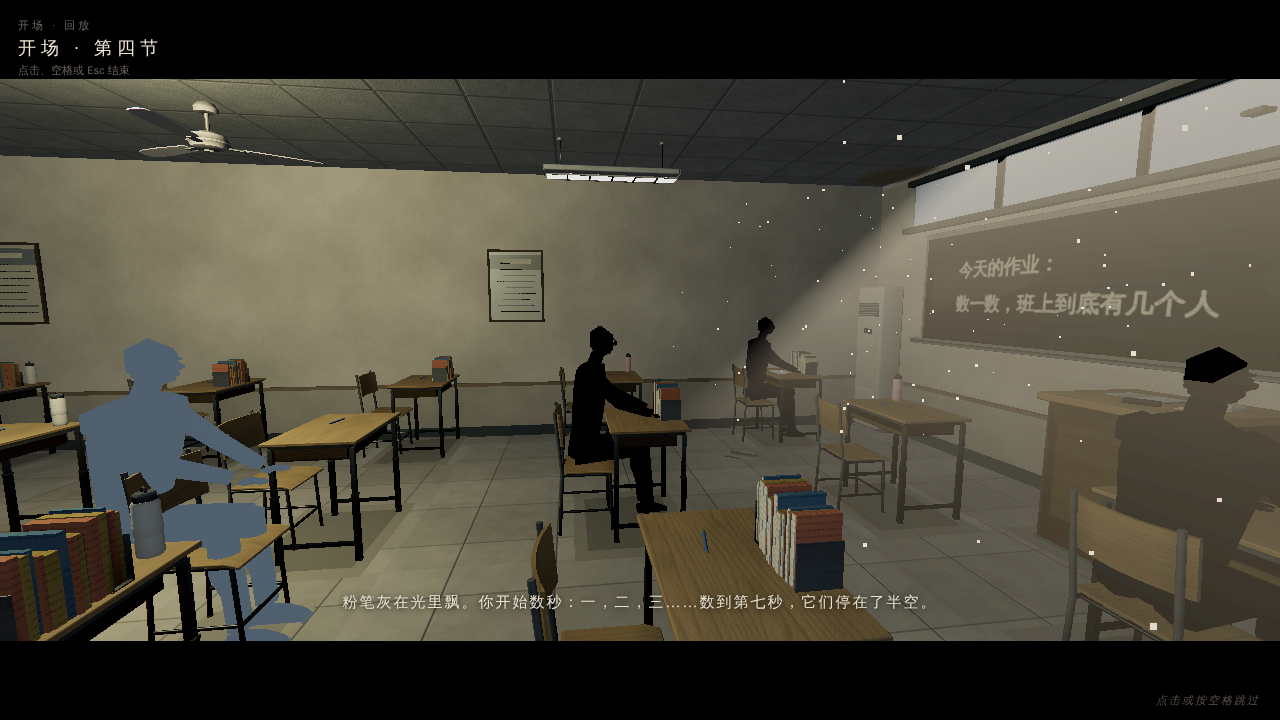
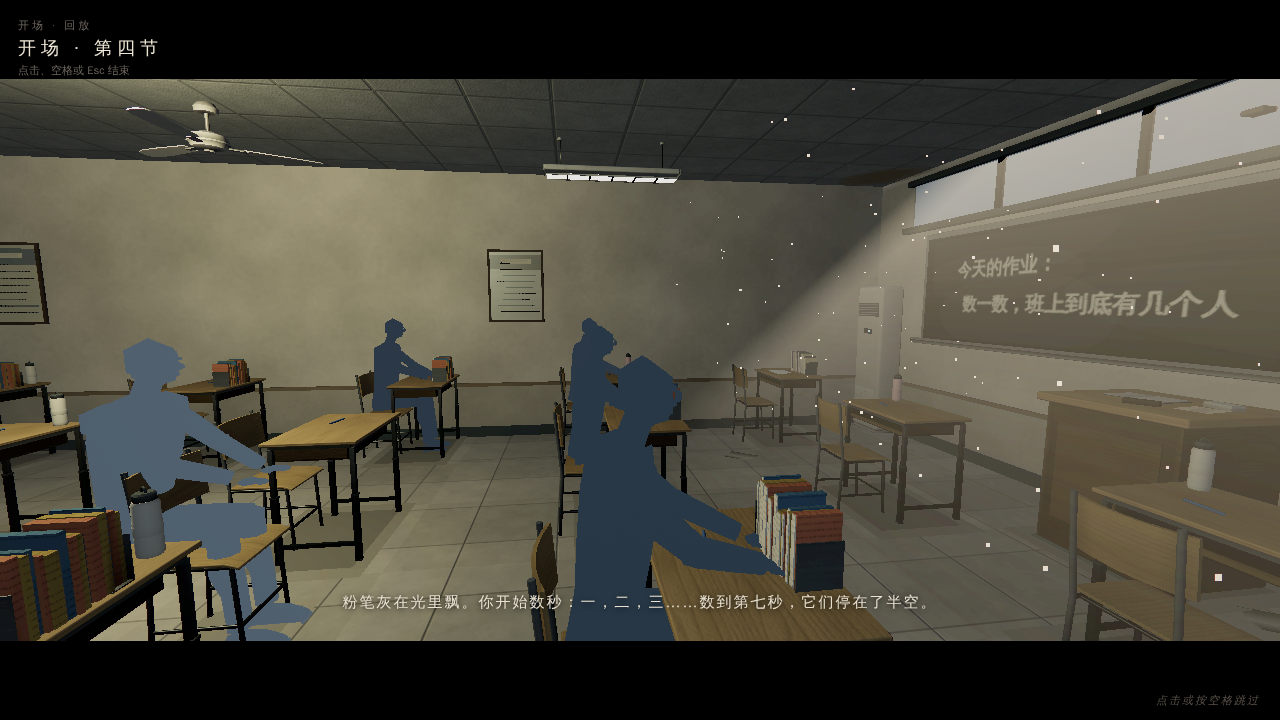
档案里重看开场：同学先换回正常的样子，天色固定在 11:40；文档对齐
- 开场看过以后教室一搭好同学就是里世界的样子，档案里重看完整版时前三段对不上：
  新增 ncRestore（ncFlip 的反向），回放开场前先换回正常的同学，演到第四段再褪掉。
- 菜单里残留的是上一局的时刻：开场回放用 VisualState.stageHour 固定在新局开始的 11:40，
  结束（含场景没搭好就结束）时收回，不改 S.tsec。
- 档案室回归补断言；重拍截图。
- 文档：产品对齐、计划 9.7、调试面板说明、AI 测试攻略、模块化规范、模块边界、README。

Claude-Session: https://claude.ai/code/session_01MYQzreqxohbYPjiGjbT8Md

diff --git a/game3d/js/death-archive.js b/game3d/js/death-archive.js
@@ -41,9 +41,10 @@ DEATH_ARCHIVE.forEach(function(e,i){ e.no=i+1; DEATH_ARCHIVE_BY_ID[e.id]=e; });
    cut 是过场 ID（CUT_DEF 的键）；解锁看真实记录——结局看 endsSeen()（「已见结局」那份），开场看 proSeen()——
    或者「全部解锁」。《先辈》是隐藏结局，标 secret：没达成过（也没全部解锁）就完全不出现。
    stage：回放前先进的场景（演出自己切室外舞台的，用教学楼一楼当底）；at：站在场景的哪一格、朝哪（《闸门》站在两排车之间的车道上朝西，
-   车灯顺着车道照出去——真实结局里是玩家站在车旁的位置和朝向） */
+   车灯顺着车道照出去——真实结局里是玩家站在车旁的位置和朝向）；hour：回放时的天色（VisualState.stageHour，只影响画面，不改 S.tsec），
+   开场固定在新局开始的 11:40（第四节），不跟着菜单里残留的上一局时刻变成夜里 */
 var ARCHIVE_CUTS=[
-  {id:'cut:opening', cut:'opening',            n:'开场 · 第四节', d:'粉笔灰停在半空，你趴到桌上。再睁开眼，教室里坐满了人，没有一个人在呼吸。', stage:'teach1'},
+  {id:'cut:opening', cut:'opening',            n:'开场 · 第四节', d:'粉笔灰停在半空，你趴到桌上。再睁开眼，教室里坐满了人，没有一个人在呼吸。', stage:'teach1', hour:700/60},
   {id:'end:car',     cut:'car',     end:'car',    n:'《闸门》',     d:'车灯闪了两下，光里站着它。冲出北门回头，黑影从门里追了出来。', stage:'garage1', at:{c:44.5,r:6.5,ang:Math.PI}},
   {id:'end:face',    cut:'face',    end:'face',   n:'《白名单》',   d:'闸机的红灯「嘀」地变白。走出门回头，门里一个接一个站满了目送的人。', stage:'teach1'},
   {id:'end:portal',  cut:'portal',  end:'portal', n:'《门》',       d:'导轨一段段闭合，光圈撑开。退了半步，然后走了进去。', stage:'lab1'},
@@ -234,6 +235,7 @@ var ArchiveReplay={on:false,id:null,timer:0,wait:0,snap:null,t0:0,cut:null,
     var cap=document.getElementById('arReplay');
     if(cap){ cap.hidden=false; cap.querySelector('b').textContent=e.n; cap.querySelector('i').textContent=e.cut?(e.end?'结局档案 · 回放':'开场 · 回放'):'死亡档案 · 回放'; }
     S.screen='replay'; S.dead=false; S.death=null; S.seated=false; S.pitch=0; S.eyeLift=0;
+    if(e.hour!==undefined) VisualState.stageHour=e.hour;          /* 先定天色再搭场景：窗光、灯这些按搭建时的时刻 */
     try{
       if(e.stage==='out'){
         S.x=DEATH_STAGE_OUT.x; S.y=DEATH_STAGE_OUT.y; S.ang=DEATH_STAGE_OUT.ang;
@@ -270,7 +272,10 @@ var ArchiveReplay={on:false,id:null,timer:0,wait:0,snap:null,t0:0,cut:null,
     if(typeof CUT_DEF==='undefined'||!CUT_DEF[e.cut]){ ArchiveReplay.stop(); return; }
     ArchiveReplay.cut={enabled:CUT.enabled,dur:CUT_DEF.opening?CUT_DEF.opening.dur:null,short:typeof Opening!=='undefined'?Opening.short:false};
     CUT.enabled=true;
-    if(e.cut==='opening'&&typeof Opening!=='undefined'){ Opening.short=false; CUT_DEF.opening.dur=OPENING_DUR.full; }   /* 档案里看完整版 */
+    if(e.cut==='opening'&&typeof Opening!=='undefined'){                /* 档案里看完整版；同学先换回正常的样子，演到第四段再褪成里世界 */
+      Opening.short=false; CUT_DEF.opening.dur=OPENING_DUR.full;
+      try{ ncRestore(); }catch(err){}
+    }
     try{ SFX.resume(); }catch(err){}
     try{ syncCamera(0); }catch(err){}
     playCut(e.cut,function(){ ArchiveReplay.stop(); });
@@ -286,6 +291,8 @@ var ArchiveReplay={on:false,id:null,timer:0,wait:0,snap:null,t0:0,cut:null,
     ArchiveReplay.on=false;
     if(typeof CUT!=='undefined'&&CUT.on){ CUT.done=null; cutFinish(); }    /* 结局 / 开场回放中途结束：先收掉过场（完成回调已摘掉，不会再进来） */
     var c=ArchiveReplay.cut; ArchiveReplay.cut=null;
+    var ent=ARCHIVE_BY_ID[ArchiveReplay.id];
+    if(ent&&ent.hour!==undefined) VisualState.stageHour=null;         /* 回放指定的天色收回（场景没搭好就结束时也收） */
     if(c){
       CUT.enabled=c.enabled;
       if(c.dur!==null&&CUT_DEF.opening) CUT_DEF.opening.dur=c.dur;

diff --git a/game3d/js/fx/classroom.js b/game3d/js/fx/classroom.js
@@ -187,6 +187,19 @@ function ncFlip(){
   NC.normal=false; NC.done=true;
   try{ GLR.flash=Math.min(0.55,(GLR.flash||0)+0.4); }catch(e){}
 }
+/* ncFlip 的反向：同学（和讲台边的老师）换回正常的样子。死亡档案室重看完整版开场时用——
+   开场看过以后，教室一搭好同学就是里世界的样子，而完整版前三段演的是正常的第四节。不闪白，不改 NC.done */
+function ncRestore(){
+  if(!NC.list||!NC.list.length||!NC.matN) return false;
+  var i,k,f;
+  for(i=0;i<NC.list.length;i++){
+    f=NC.list[i];
+    if(!f.children) continue;
+    for(k=0;k<f.children.length;k++) f.children[k].material=NC.matN;
+  }
+  NC.normal=true;
+  return true;
+}
 /* 同班表现是否存在：数值压力由规则层按模拟时间结算。 */
 function ncPressureState(){return !!(NC.grp&&NC.room&&S.mode==='in'&&S.room===NC.room);}
 function ncUpdate(dt){

diff --git a/tests/test_archive_speedrun.py b/tests/test_archive_speedrun.py
@@ -154,13 +154,18 @@ class DeathArchiveTest(BrowserCase):
         page.wait_for_timeout(500)
         page.keyboard.press('Escape')
         page.wait_for_function("!ArchiveReplay.on&&S.screen==='menu'")
-        # 开场：档案里看完整版，按键也能结束
+        # 开场：档案里看完整版，按键也能结束。菜单里残留的是上一局的深夜，开场仍按 11:40 的天色演；
+        # 开场看过以后教室一搭好同学就是里世界的样子，完整版前三段要换回正常的同学
+        page.evaluate("S.tsec=1380")
         page.locator('#arcuts .arcard[data-id="cut:opening"] button').click()
         page.wait_for_function("ArchiveReplay.on&&CUT.on&&CUT.id==='opening'&&CUT.dur===OPENING_DUR.full", timeout=20000)
+        self.assert_js(page, "Math.abs(hourNow()-700/60)<1e-6&&S.tsec===1380")
+        self.assert_js(page, "NC.normal===true&&NC.list.length>0&&NC.list.every(f=>[...f.children].every(c=>c.material===NC.matN))")
         page.wait_for_timeout(600)
         page.keyboard.press('Escape')
         page.wait_for_function("!ArchiveReplay.on")
         self.assert_js(page, "S.screen==='menu'&&!CUT.on&&Opening.short===false&&document.getElementById('opcap').textContent===''")
+        self.assert_js(page, "VisualState.stageHour===null&&S.tsec===1380")
 
     def test_unlock_all_needs_the_debug_password_and_does_not_fake_progress(self):
         """「全部解锁」：在页面里的数字键盘上输调试密码，死亡和演出（包括隐藏的）全部打开，只记成「直接解锁」：

diff --git a/docs/产品对齐文档.md b/docs/产品对齐文档.md
@@ -87,7 +87,7 @@
 | 寻路与探索 | 找到建筑、走楼梯、定位物件，记下有价值的线索。 | 小地图、全图、建筑门牌、罗盘、笔记、思索。 | 地图、线索和思索的职责容易混淆，线索跨天规则不直观。 |
 | 异象求生 | 识别危险，并知道某种行动可能改变结果。 | 声音、视觉特效、字幕、选择界面。 | 难度、提示时间、危险阈值与低帧率体验尚无实测标准。 |
 | 暂停与继续 | 安全中断并能回到相同进度。 | 自动保存、暂停菜单手动保存、继续上次。 | 单槽位；部分运行状态仍不能完整恢复。 |
-| 到达结局 | 确认路线有效，理解结局并返回菜单。 | 结局文本、返回按钮和主菜单已见结局。 | 是否提供继续探索或重看，尚待确定。 |
+| 到达结局 | 确认路线有效，理解结局并返回菜单。 | 结局文本、返回按钮和主菜单已见结局；达成过的结局演出可在死亡档案室「结局与开场」里重看（2026-11-03）。 | 是否提供继续探索，尚待确定。 |
 | 求助 | 理解规则或卡关时寻求提示。 | 主菜单的玩家 Wiki。 | Wiki 包含折叠剧透；游戏内是否提供无剧透分级提示待决策。 |
 
 ### 2.2 首局的实际步骤
@@ -135,7 +135,7 @@
 | 新局天赋选择 | 已实现（2026-11-01） | 选完难度先选一项天赋或随机，确认才开新局。 | 规则 2 的试验效果待真人理解度与平衡验收。 |
 | 新局 3D 开场 CG | 已实现（2026-11-01） | 在教室里实时演出变成里世界，随时可跳过。 | 安卓真机、五档逐一与听感待验收。 |
 | 速通模式 | 已实现（2026-11-01） | 本机 RTA 计时、按难度与路线记个人最佳。打开调试面板、不经正常路线直接调结局、带着快跑 / 无敌 / 关读条结算都记无效；开速通时这三个跨局保留的调试开关恢复常规状态（2026-11-02 补）。 | 本地记录，不能防作弊；自然通关计时未做真人记录。 |
-| 死亡档案室 | 已实现（2026-11-01） | 每种死法记一份，可在隔离舞台重看演出。 | 浏览器本地存储；真机触屏回放未测。 |
+| 死亡档案室 | 已实现（2026-11-01；2026-11-03 收入结局与开场） | 每种死法记一份，可在隔离舞台重看演出；达成过的结局、看过的开场也能重看（不出结局卡、不改记录）。「全部解锁」要先输调试密码，只记成「直接解锁」。 | 浏览器本地存储；真机触屏回放未测。 |
 | 特殊校园日 | 已实现（2026-11-01） | 校庆（逐秒 SAN 流失减半）与占课（琴房机房不开）。 | 概率为实施取值，长局体验待验收。 |
 | 传送门实体装置 | 已实现（2026-11-01） | 演示台上看得见装置随剧情组装，结局演出用同一模型。 | 安卓低画质辨认度待验收。 |
 
@@ -148,7 +148,7 @@
 | --- | --- | --- | --- |
 | 主菜单 | 加载主页、死亡/结局/暂停返回 | 难度、新局、继续存档、速通模式、死亡档案室、画质、亮度、Wiki、全屏。 | 选择新局或继续；Wiki 是独立网页。 |
 | 速通模式 | 主菜单「速通模式」 | 说明计时口径；选预知梦 / 梦魇后进入天赋选择开局；下面是按「规则版本 · 难度 · 路线」的个人最佳和最近 5 次结果。隐藏路线只有本机打通过才出现在表里。 | 返回或 Esc；选难度后进入天赋选择。 |
-| 死亡档案室 | 主菜单「死亡档案室」 | 已记录 n / 公开总数（解锁过隐藏档案时另显示「隐藏 n」）；每份档案是标题、一句记录、经历次数和「重看」；没遇到的公开档案显示「尚未记录 · 封存的档案」，不露标题和死因；隐藏档案（目前是虚空迷宫里的两种死法）没遇到时完全不出现。旧版本来源不明的死亡只给出条数。 | 返回或 Esc；「重看」进入隔离回放，点击 / 空格 / Esc 结束后回到档案室。 |
+| 死亡档案室 | 主菜单「死亡档案室」（副标题「死法、结局与开场，都能重看」） | 两节同一个滚动区。「死亡」：已记录 n / 公开总数（解锁过隐藏档案时另显示「隐藏 n」）；每份档案是标题、一句记录、经历次数和「重看」；没遇到的公开档案显示「尚未记录 · 封存的档案」，不露标题和死因；隐藏档案（目前是虚空迷宫里的两种死法）没遇到时完全不出现。旧版本来源不明的死亡只给出条数。「结局与开场」（2026-11-03）：已解锁 n / 5（开场 + 四个公开结局；隐藏结局达成过才出现，另记「隐藏 1」）；达成过的写「已达成」、看过的开场写「已看过」，没达成的显示「尚未达成 · 封存的结局」。底部「全部解锁」：先弹调试密码数字键盘，输对后全部打开（含隐藏条目），卡片写「直接解锁 · 没有亲历」，按钮变「已全部解锁」。整块不超过屏幕高，手机横屏底部按钮也在屏幕里。 | 返回或 Esc；「重看」进入隔离回放，点击 / 空格 / Esc 结束后回到档案室（结局与开场走过场自己的跳过，不出结局卡、不写结局记录）；密码键盘的取消 / Esc 只关键盘。 |
 | 开场 CG | 每次新局（2026-11-01 起替代文字前情提要） | 在第一节教室实时演出：正常的第四节、老师从头再念、粉笔灰停在半空、颜色褪去闭眼、第一人称醒来；字幕沿用原前情提要。第一次完整版约 26 秒，看过 / 跳过后短版约 11 秒；世界模拟停止。 | 点击、空格、回车、Esc 随时跳过；看完和跳过走同一个交接，座位、朝向和画面状态一致。没有 3D 场景时退回文字版前情提要。 |
 | 游戏画面 | 开局或载入 | 3D 场景、HUD、小地图、字幕、提示、快捷栏。 | 暂停、死亡、结局。 |
 | 背包 | Tab / 触屏「背包」 | 八格、选择、双击使用、丢弃、两个快捷栏。 | Tab、Esc 或关闭按钮。 |
@@ -691,6 +691,7 @@ flowchart TD
 - 垃圾房第三个桶已改为死亡分支：死亡演出 `trash` 是「桶里往上看 → 盖子合上 → 桶沿漏一圈光、外面敲两下 → 黑」，不再出结局卡；旧存档里已有的假结局记录保留。
 - 死亡演出（可触发的 30 种死法各自一段，约 2–3.6 秒；其中虚空迷宫里的两种由迷宫模块登记）看过 0.6 秒后，点一下或按空格 / 回车 / Esc 可以跳过，直接到死亡界面或预知梦惊醒；同样只结算一次，触屏点跳过的那一下不会按到随后出现的按钮。
 - 实现见 `game3d/js/cutscene.js`；`CUT.enabled=false` 时直接出文字卡（回归测试用）。
+- 重看（2026-11-03）：达成过的结局和看过的开场收在死亡档案室「结局与开场」里（`death-archive.js` 的 `ARCHIVE_CUTS`），用同一份 `CUT_DEF` 在隔离舞台上播：《闸门》站在车库车道上朝西，《门》在物理实验室，其余以教学楼一楼为底；完成回调只回档案室，不出结局卡、不写结局记录、不动存档；回放时临时打开过场开关、结束还原，开场看完整版（天色固定在 11:40，同学先换回正常的样子再演褪色）。隐藏结局没达成过就不出现；「全部解锁」（调试密码）可直接打开全部。
 - 新局开场 CG（`game3d/js/opening.js`）也走同一套过场框架：`CUT_DEF.opening`，演出期间 `S.screen==='cut'`、`PRO.on` 挡住输入和同学的自动变化；`Opening.handoff()` 幂等交接到 11:40 的座位。速通从交接后第一次能操作时起表。
 - 传送门实体：演示台上常驻一台（基座、支柱、线缆、空卡槽；图纸齐了卡槽亮灯；组装后线圈、透镜、试剂、电池装上，门内流光），单独一组按 `RT.portalSketch / portalOpen` 摆放，不进房间合并网格、不新增碰撞；五档画质只改分段数，流畅档门内保留一层不透明的流光。
 
@@ -757,7 +758,7 @@ flowchart TD
 | `zw3d_set` | 画质、音量、字幕、亮度、镜头晃动、音乐环境、画面颗粒等。 | 设置变化时保存；启动时读取。 |
 | `wdfz3d_deaths` | 各种死法、具体来源的次数和最近 12 次死亡（来源、效果、天数、地点）。 | 每次真实死亡时写入；笔记「梦里记得的事」读取。新局不清除。 |
 | `wdfz_pro` | 是否看过（或跳过）开场。 | 开场交接时保存；新局开始时决定完整版还是短版。 |
-| `wdfz3d_death_archive_v1` | 死亡档案：`version`、`unlocked{id}`、`first{id:时间}`、`count{id}`、`legacy{id}`（从旧日志迁入）、`pending`（来源不明的旧记录条数）、`migrated`。 | 真实死亡在保命判定之后写入；启动时迁移一次旧 `wdfz3d_deaths`（只迁有明确来源的）。不随存档、结局、新局删除。 |
+| `wdfz3d_death_archive_v1` | 死亡档案：`version`、`unlocked{id}`、`first{id:时间}`、`count{id}`、`legacy{id}`（从旧日志迁入）、`granted{id}`（「全部解锁」直接打开的死亡、结局、开场条目，不计次数、不算亲历；2026-11-03）、`pending`（来源不明的旧记录条数）、`migrated`。结局与开场条目本身不另存，按 `wdfz3d_ends`、`wdfz_pro` 判断。 | 真实死亡在保命判定之后写入；启动时迁移一次旧 `wdfz3d_deaths`（只迁有明确来源的）。不随存档、结局、新局删除。 |
 | `wdfz3d_speedrun_v1` | 速通成绩：`recent`（最近 20 次：runId、难度、路线、毫秒、状态、无效原因、规则版本、游戏版本、时间）和 `best`（键 `r规则|难度|路线`）。 | 结束（通关 / 失败 / 放弃 / 无效）时写一次，同一 runId 不重复。 |
 | `wdfz3d_speedrun_slot` | 速通专用存档槽，结构同 `wdfz3d`。 | 速通中的自动保存只写这里；开新速通、回主菜单时清掉。普通「继续上次」不读它。 |
 
@@ -1084,6 +1085,7 @@ flowchart TD
 | 2026-11-02 | PR #25 合入 main 的项目解耦与模块化：18.2 节「主要事实来源」改为新局 / 继续 / 暂停在 `app/session.js`、输入策略在 `app/input-context.js`、数值 / 时间 / 背包 / 存档规则在 `domain/`；天赋、特殊日、速通、死亡档案与开场 CG 按模块接口接入。 | 玩法规则、数值和存档格式不变；验证见测试说明。 |
 | 2026-11-02 | 按用户手稿把电梯特殊空间重做为虚空迷宫（桥厅、阶梯塔、坠落复活、越久越快的 SAN 流失、地图与时间失效）；粉笔可画记号并存档；项目按模块清单加载，加入钩子、房间接口和 Mod 入口（自带 / 网址 / 上传，`?nomod` 安全模式）。 | 代码与自动化完成；出口 2 去向等参数未经逐项确认；真人试玩与真机待验收。 |
 | 2026-11-02 | PR #27：全部一次性音效重做为配方 + 播放器 + 按类别校准的响度（11.3 节）；上课铃与下课铃分开；虚空迷宫加柱林、窄梁、回环三种结构（内部空间，不进 Wiki）；隐藏彩蛋天赋「武大子弟」（每次新开局 3% 几率、另有隐藏入口；开局自带手电、与正常天赋叠加，内部，见天赋计划第 13 节）。 |
+| 2026-11-03 | 死亡档案室收入结局与开场演出（隔离回放，不出结局卡、不改存档和结局记录）；「全部解锁」入口（需调试密码，只记成直接解锁，不写死亡次数和已见结局）；手机横屏档案室底部按钮不再被挤出屏幕。 | 玩法规则不变；Wiki 只写公开结局与开场可重看；验证见测试说明。 |
 
 ## 可玩性扩展的资源和验证边界
 

diff --git a/docs/plan/README.md b/docs/plan/README.md
@@ -6,7 +6,7 @@
 | --- | --- | --- |
 | [巡察者常驻、手机网络系统与网安仙人](巡察者常驻、手机网络系统与网安仙人.md) | 代码已实现，待自然试玩／真机验收 | [PR #29](https://github.com/chorusfruit-233/wdfz/pull/29) 集中实现 Q01—Q29：全校单巡察者固定路线、穿门／符纸消灭后 30 秒复生、独立检查责任与救回解除；统一运行秒、手机能源／科技党、无线接入／实时定位／远程同步、模拟 Linux 解谜、600 秒生存与公开真结局《网安仙人》。完成存档／预知梦兼容、3D 分镜和文档同步。2026-11-02 完整本地回归 549 项（548 通过、1 环境跳过），加收尾专项按最后结果去重为 556 项（555 通过、1 环境跳过）；固定巡逻覆盖 68/68 条边，永久追踪 34/34 个目标可达，见[回归记录](../validation/巡察手机网络回归.md)。M7 自然收集通关组合、Android 真机、听感与真实 GPU 尚待验收。2026-11-03 合并后复审（第 16 节）：跨场景追踪的路由改为缓存骨架最短路（重规划卡顿明显减少），《网安仙人》结局演出按 9.2 节重做为 16 秒实时 3D 分镜（[PR #30](https://github.com/chorusfruit-233/wdfz/pull/30)）。 |
 | [项目解耦与模块化](项目解耦与模块化.md) | 代码已实施，待真人／真机验收 | 按最新指示直接在 main 实施，代码 `37658d8`：统一输入／会话生命周期，抽出数值、时间、背包和存档规则，隔离镜头与结局舞台，加入模块边界检查。当前 397 项按完整回归及专项复测去重核对：396 通过、1 环境跳过；汽车路线实际操作通关。普通脚本、旧接口、原随机源和同学场景查询作为兼容边界保留；真人／真机与真实 GPU 对照未验收，记录见正文第 10 节及测试说明。PR #25 合入本次模块化时，天赋规则 2、开场 CG、速通、死亡档案与特殊日按同一接口接入（见[模块边界与迁移](../模块边界与迁移.md)第 7 节），A-01 开场空格跳过随新输入策略修复。 |
-| [传送门建模、死亡CG档案室与速通模式](传送门建模、死亡CG档案室与速通模式.md) | 部分完成 | 第 6.7 节 20 分钟自然日此前已部署。2026-11-01 实现 P0 传送门实体模型（实验室常驻装置与结局演出共用）、P1 死亡档案室（18 种死因、可信解锁、隔离回放）、P2 速通模式（RTA、独立存档槽、个人最佳）、P3 新局 3D 开场 CG、P4 水杯前摇缩短 / 夜间连锁异象 / 校庆与占课，均有自动化与截图（第 9 节）；电梯异常维度的「异色空间」重绘及人影已按要求从 PR #25 撤回；2026-11-02 按用户手稿重新设计为虚空迷宫（6.4 节，另立计划「虚空迷宫、粉笔记号与模块化」，PR #26）；2026-11-02 已合入 main 的模块化重构，按新接口接入，开场 CG 键盘空格跳过的输入分流问题随之修复；真人试玩、安卓真机、听感与真实 GPU 性能验收未做。 |
+| [传送门建模、死亡CG档案室与速通模式](传送门建模、死亡CG档案室与速通模式.md) | 部分完成 | 第 6.7 节 20 分钟自然日此前已部署。2026-11-01 实现 P0 传送门实体模型（实验室常驻装置与结局演出共用）、P1 死亡档案室（18 种死因、可信解锁、隔离回放）、P2 速通模式（RTA、独立存档槽、个人最佳）、P3 新局 3D 开场 CG、P4 水杯前摇缩短 / 夜间连锁异象 / 校庆与占课，均有自动化与截图（第 9 节）；电梯异常维度的「异色空间」重绘及人影已按要求从 PR #25 撤回；2026-11-02 按用户手稿重新设计为虚空迷宫（6.4 节，另立计划「虚空迷宫、粉笔记号与模块化」，PR #26）；2026-11-02 已合入 main 的模块化重构，按新接口接入，开场 CG 键盘空格跳过的输入分流问题随之修复；2026-11-03 档案室收入结局与开场演出（隔离回放）并加「全部解锁」（需调试密码，只记成直接解锁），第 9.7 节；真人试玩、安卓真机、听感与真实 GPU 性能验收未做。 |
 | [天赋系统重构](天赋系统重构.md) | 部分完成 | 2026-11-01 完成 M0–M3：`talents.js` 统一定义与能力接口、新局选择 / 随机 / 返回、免疫立即落盘、未知 ID 校验、手册与暂停反馈、规则 2 试验效果（旧存档保持规则 1），`tests/test_talents.py` 9 项；M4 路线自然通关与 M5 真人 / 真机验收未做（第 12 节）。；2026-11-02 PR #27 加一项隐藏彩蛋天赋（内部，见第 13 节，不进 Wiki）。 |
 | [可玩性与整体体验提升](可玩性与整体体验提升.md) | 代码已实现，待真人／真机验收 | [PR #20](https://github.com/chorusfruit-233/wdfz/pull/20) 集中交付 G1–G9 的实现、回归与记录工具：首局调查、具体笔记与路线选择、图纸挑战、补给取舍、失败归因、楼层草图、操作设置及叙事回应。第二轮（17.6 节）做了审查修复、全部新界面与场景文字牌按游戏界面风格重做、Alt 放出鼠标。真人盲玩、正常收集通关、自然跨日、实体设备、听感和重玩价值保持待验收，证据见正文第 17 节。 |
 | [恐怖体验深化与验证](恐怖体验深化与验证.md) | 部分完成 | P0–P2 与第 6 节自动化已完成：威胁矩阵与事件优先级表、原巡察者卡住放弃 / 跟丢回头找 / 记得躲过的柜子（PR #29 改用常驻策略，永久追踪不再因卡路超时解除）、声音先行与有方位的假威胁、惊吓预算、骤静与前兆、回访变化、五分钟切片，导演系统评估后暂不做；安卓真机与真人试玩记录未做。2026-11-02 异色空间人影改动已从 PR #25 撤回，随异常维度一起重新设计。 |

diff --git a/docs/模块化与Mod规范.md b/docs/模块化与Mod规范.md
@@ -121,12 +121,14 @@ game3d/mods/                    随游戏发布、默认关闭的 Mod；index.js
 
 - `DeathCG.register(类型, {build(c), update(c, k, view)})`：登记一种演出，同名覆盖内置。`build` 搭模型，`update` 按经过的秒数 `k` 摆模型和镜头——所有位置只由 `k` 算，帧率高低结果一样。`c` 是演出上下文：`add / mesh / box / fig / fx / merged / inst`（建在「视线坐标系」里：原点在脚下，+z 是死的那一刻的视线方向，本地 +x 在画面左边）、`veil`（收束用的黑幕）、`cam(view, k, 偏航, 俯仰, 下沉)`（镜头；偏航为正往右转）、`shade`、`flash`（只闪一次，亮度封顶 0.5）、`cue`（声音到点只响一次）、`face`、`hideWorld()`（藏起当前房间或室外，场景里标了 `userData.worldPart` 的东西——例如粉笔记号——一起藏，清场时还原）。往 `c` 上挂自己的东西时别用它已有的字段名（`type F preview rand base shk flashed cued lift veilMesh`）。常用小工具在 `DeathCG.kit`：`seg / sm / ss / lerp3 / rng / mat / setI`。
 - `DeathTimeline.define(类型, 秒)`：登记时长（四段式至少 3 秒；死亡界面在演出放完后出现）。
-- 配套：死亡音写成声音库里的 `death.<类型>`（`SFX.deathFx` 会先放 `death.base`）；墓志铭 `DFX_EPI[类型]`、死因与复盘提示 `DEATH_SOURCES[来源] = {cause, hint}` 由模块的逻辑文件填；调试面板的预览列表 `DEV_DEATH.push([名字, 类型])`；死亡档案的条目登记在 `death-archive.js`（档案启动时就要认得全部 ID，所以写在那里；属于内部内容的标 `secret:1`，没死过不出现、不算总数）。
+- 配套：死亡音写成声音库里的 `death.<类型>`（`SFX.deathFx` 会先放 `death.base`）；墓志铭 `DFX_EPI[类型]`、死因与复盘提示 `DEATH_SOURCES[来源] = {cause, hint}` 由模块的逻辑文件填；调试面板的预览列表 `DEV_DEATH.push([名字, 类型])`；死亡档案的条目登记在 `death-archive.js`（档案启动时就要认得全部 ID，所以写在那里；属于内部内容的标 `secret:1`，没死过不出现、不算总数；演出由模块注册的再标 `ext:1`，模块拿掉时这份档案不列出、「全部解锁」也不打开）。
 - 性能与可读性约束由 `tests/test_death_timeline.py` 统一检查：每种演出在场景之外最多再加 30 次绘制、只用开局预热过的材质组合（不在死的那一刻现编着色器）、帧率无关、四个阶段画面不同、闪光不超过 0.5、关掉「镜头晃动」时不晃。
 
 ### 4.3 结局演出（`cutscene.js` 的 `CUT_DEF`）
 
 模块可以往 `CUT_DEF` 加自己的结局演出（`modules/cyber-route/ending.js` 的《网安仙人》）：`{dur, setup(d), frame(k, d), clean(d)}`，`k` 是 0–1 的进度，一切位置只由 `k` 算；跳过和播完走同一个只执行一次的收尾。要在舞台上演就调 `Engine.beginOutsideStage()`（收尾自动 `endStage`）；临时对象用 `cutAdd` 挂进 `CUT.grp`，收尾统一释放（画布贴图在材质上标 `userData.disposeMap`）。需要别的天色时设 `VisualState.stageHour`（只影响天色、光照和环境声，`clean` 里置回 `null`）；室内布景的明暗用 `lightState` 钩子按 `CUT.id` 改，不要加实时点光源。几处布景开头一起 `GLR.renderer.compile(CUT.grp, GLR.cam, GLR.scene)`，中途切镜不现编着色器。
+
+结局演出要在死亡档案室「结局与开场」里能重看（2026-11-03），在 `death-archive.js` 的 `ARCHIVE_CUTS` 登记一条：`{id:'end:<结局ID>', cut:'<CUT_DEF 键>', end:'<结局ID>', n:标题, d:一句记录, stage:回放前先进的场景, at:可选的站位{c,r,ang}}`，隐藏结局加 `secret:1`。解锁看「已见结局」；回放用同一份 `CUT_DEF`、完成回调只回档案室，所以 `setup / frame / clean` 不能假定之后一定会出结局卡或改存档。`CUT_DEF` 里没有这个键（模块拿掉了）时，这条档案自动不列出。
 
 ## 5. Mod
 

diff --git a/docs/模块边界与迁移.md b/docs/模块边界与迁移.md
@@ -95,7 +95,7 @@ PR #25 合入主分支模块化时（2026-11-02），本分支新增的模块都
 | `day-events.js` | 校庆 / 占课特殊日；`sanDrain()` 逐秒消耗入口 | `sanDrain(rate,dt,source)` 乘校庆倍率后调用 `PlayerStats.changeSan`，异象、巡察、危险区、漫游者的逐秒消耗都走它；校庆横幅 `DayDecor` 由生命周期钩子 `day-decor` 清理 |
 | `speedrun.js` | 速通 RTA、个人最佳 | 用 `performance.now()` 计真实经过时间，暂停和切后台照计；第一次 `GamePolicy.playerAllowed` 为真（且不在过场）时起表。开速通时 `app/session.js` 调 `Dev.clearModifiers()`，把跨局保留的快跑、无敌、关读条恢复成常规状态（开关仍归 `dev.js` 管）；结算时用 `Dev.modifiersActive()` 再查一次。回菜单由钩子 `speedrun`（只处理 `menu` 边界）记放弃、清掉速通存档槽 |
 | `save.js` 的 `saveSlot()` | 速通独立存档槽 | 速通局经 `GameStorage` 读写 `wdfz3d_speedrun_slot`，普通局和「继续上次」只用 `wdfz3d`；成绩另存 `wdfz3d_speedrun_v1` |
-| `death-archive.js` | 死亡档案解锁与隔离回放 | 只在真实死亡演出收尾时由 `story.js` 调 `DeathArchive.notify`；保命挡下、调试预览、回放不解锁。回放时 `S.screen='replay'`，`GamePolicy` 判为非游玩，模拟不推进、不写存档；演出资源由 `anfxClear` 释放（演出用 `Ctx.hideWorld` 藏起的场景也在这里还原）。`secret` 条目没解锁时不出现、不计总数（虚空迷宫的两种死法） |
+| `death-archive.js` | 死亡档案解锁与隔离回放 | 只在真实死亡演出收尾时由 `story.js` 调 `DeathArchive.notify`；保命挡下、调试预览、回放不解锁。回放时 `S.screen='replay'`，`GamePolicy` 判为非游玩，模拟不推进、不写存档；演出资源由 `anfxClear` 释放（演出用 `Ctx.hideWorld` 藏起的场景也在这里还原）。`secret` 条目没解锁时不出现、不计总数（虚空迷宫的两种死法）。2026-11-03 起也收结局与开场（`ARCHIVE_CUTS`）：解锁读 `endsSeen()` / `proSeen()`，回放调用正式的 `playCut`，完成回调只回档案室（不走 `showEndingCard`，《闸门》也不进 `CarChase.start`；不写 `wdfz3d_ends`、不清存档），过场开关临时打开、结束还原；开场的天色用 `VisualState.stageHour`、同学用 `ncRestore` 摆回正常的第四节；「全部解锁」经 `DevLock.ask` 的回调写 `granted`；演出由模块提供的条目按 `CUT_DEF` / `DeathCG.has` 判断在不在 |
 | `opening.js` | 新局 3D 开场 CG 与交接 | 演出期间 `PRO.on` 挡住输入、`S.screen='cut'`，`GamePolicy.mode` 把跳过键交给正式过场（即计划 A-01 的修复）；看完和跳过都走一次 `Opening.handoff`。没演完回菜单 / 读档由钩子 `opening` 收掉，开场字幕定时器在 `intro` 作用域里 |
 
 天赋状态（`S.talent`、`S.talentState`）由 `Talent` 负责，`S.immuneUsed` 只是 `talentState.consumed.fatalProtection` 的兼容别名；读旧档时 `Talent.normalizeSaved` 把未知或缺失的天赋读成「没有天赋」、旧存档保持规则 1。

diff --git a/docs/plan/传送门建模、死亡CG档案室与速通模式.md b/docs/plan/传送门建模、死亡CG档案室与速通模式.md
@@ -381,3 +381,15 @@
 电梯异常维度的重绘及人影已从当前 PR 撤回；2026-11-02 按用户手稿重做为虚空迷宫，见 6.4 节与[虚空迷宫、粉笔记号与模块化](虚空迷宫、粉笔记号与模块化.md)。
 
 2026-11-02：本分支合入 `main` 的项目解耦与模块化。档案回放、速通、开场 CG 和特殊日按模块化接口接入（SAN 写入经 `PlayerStats`、回菜单清理经 `Lifecycle` 钩子、存档经 `GameStorage`，见[模块边界与迁移](../模块边界与迁移.md)第 7 节），规则和数值不变；开场 CG 按空格被旧前情提要接走的问题（模块化计划 A-01）由新的输入策略修复。合并后的回归见[测试说明](../测试说明.md)「PR #25 合入主分支模块化验证」。
+
+### 9.7 补记（2026-11-03）：档案室收入结局与开场演出、「全部解锁」
+
+用户要求：在死亡 CG 档案里也加上结局 CG 的档案，并加一个入口可以直接获得所有的 CG。
+
+- [x] **结局与开场**：`ARCHIVE_CUTS` 登记开场、四个公开结局和隐藏结局《先辈》（`secret`）。解锁按真实记录（结局看 `wdfz3d_ends`，开场看 `wdfz_pro`），档案室分「死亡」「结局与开场」两节；隐藏结局没达成过不出现、不计数。
+- [x] **隔离回放**：同一份 `CUT_DEF` 在隔离舞台上播，完成回调只回档案室——不出结局卡、不写结局记录、不动存档、不停速通表；开场看完整版，天色固定在 11:40、同学先换回正常的样子（截图时发现：开场看过以后教室一搭好同学就是里世界的样子，完整版前三段会对不上）；过场开关临时打开、结束还原；场景声音一起收掉。鼠标按下结束回放时，松开的 click 不再落到同一位置的另一张「重看」上。
+- [x] **全部解锁**：底部按钮，先在调试密码数字键盘上输密码（`DevLock.ask` 增加标题和回调）。输对后死亡、结局、开场全部打开，只记在 `granted`：显示「直接解锁 · 没有亲历」，不写死亡次数和已见结局，之后真实死亡照常计入；取消只关键盘。
+- [x] **模块边界**：演出由模块提供的档案（《网安仙人》、迷宫两种死法）在模块拿掉时不列出、不计数、不被全部解锁打开（`DeathArchive.avail`）。
+- [x] **版面**：两节同一个滚动区；整块不超过屏幕高，手机横屏 844×390、740×360 上底部按钮不再被挤出屏幕（main 上原本要滚外层才看得到）。
+- 验收证据：`DeathArchiveTest` 新增 3 项（结局与开场的显示、隔离回放、鼠标与键盘的点击、过场开关还原；全部解锁的密码、计数、不写记录、之后真实死亡；横屏矮屏版面），`test_modules` 拿掉迷宫模块时全部解锁不打开迷宫档案，Wiki 用例核对公开段落；截图 `pictures/死亡档案室结局CG/`。全量回归见[测试说明](../测试说明.md)同日记录。
+- 未做：真机触屏回放与横屏手感；Wiki 只写公开结局与开场可重看，隐藏结局、迷宫死法和「全部解锁」不进 Wiki。

diff --git a/docs/调试面板说明.md b/docs/调试面板说明.md
@@ -1,6 +1,6 @@
 # 调试面板说明
 
-游戏中按 **F2**，或在暂停菜单点击「调试」，屏幕中间弹出「输入调试密码」的**数字键盘**（2026-11-02 起，不再用浏览器自带的输入框）：点 0–9 输入，输了几位用圆点显示，「删除」退一位，「确认」校验，「取消」关掉；桌面上也可以直接按数字键、退格、回车，Esc 或 F2 取消。输错会清空并提示「密码不对，再试一次」（键盘轻轻晃一下，系统设了「减少动态效果」时不晃），空着点确认提示「请先输入密码」。键盘打开期间游戏冻结、按键不会漏进游戏，取消后恢复原来的鼠标环视；手机横屏高度不够时键盘排成两行六列。触屏设备从暂停菜单进入。密码（`DEV_CODE`）和键盘（`DevLock`）都在 `game3d/js/dev.js`；关闭后重新打开需要输入，收起后再展开不用输入。F2 或右上角关闭按钮可关闭面板；焦点在面板内时，Esc 也可关闭。
+游戏中按 **F2**，或在暂停菜单点击「调试」，屏幕中间弹出「输入调试密码」的**数字键盘**（2026-11-02 起，不再用浏览器自带的输入框）：点 0–9 输入，输了几位用圆点显示，「删除」退一位，「确认」校验，「取消」关掉；桌面上也可以直接按数字键、退格、回车，Esc 或 F2 取消。输错会清空并提示「密码不对，再试一次」（键盘轻轻晃一下，系统设了「减少动态效果」时不晃），空着点确认提示「请先输入密码」。键盘打开期间游戏冻结、按键不会漏进游戏，取消后恢复原来的鼠标环视；手机横屏高度不够时键盘排成两行六列。触屏设备从暂停菜单进入。密码（`DEV_CODE`）和键盘（`DevLock`）都在 `game3d/js/dev.js`；关闭后重新打开需要输入，收起后再展开不用输入。死亡档案室的「全部解锁」（2026-11-03）也用这同一个键盘和密码：键盘标题写「输入调试密码 · 解锁全部 CG」，输对只打开档案（不会顺带打开调试面板），取消或 Esc 只关键盘、不关档案室；`DevLock.ask({title,onOk,onCancel})` 不带参数时就是打开调试面板。F2 或右上角关闭按钮可关闭面板；焦点在面板内时，Esc 也可关闭。
 
 按住标题栏上的「按住拖动」区域，可以用鼠标或手指移动窗口；在面板内容区上下滑动仍是滚动内容。点击「归位」可将窗口移回默认位置，桌面 / 竖屏为左上角，触屏横屏为摇杆和交互键之间那一条的正中。键盘用户可以用 Tab 选中标题栏，再用方向键移动，按住 Shift 加快移动，或按 Home 归位。窗口位置在本次页面会话中保留，刷新页面后恢复默认。
 

diff --git a/docs/AI测试攻略.md b/docs/AI测试攻略.md
@@ -54,7 +54,7 @@ python3 -m http.server 8000 --bind 127.0.0.1
 
 调试面板可用 F2 或暂停菜单的「调试」打开，密码在页面里画的数字键盘上点（也可以直接按数字键、回车），密码是 `game3d/js/dev.js` 的 `DEV_CODE`；自动化脚本可以点 `#devlock [data-k="数字"]` 再点确认，或直接 `DevLock.submit(DEV_CODE)`。面板支持室内外传送、触发异象、调整时间、无敌和状态查看。它适合快速搭建场景，但传送或直接触发异象不能证明正常行走、触发条件或完整剧情链路可用；这些需求还要按玩家路径验证。
 
-状态会影响复现：`wdfz3d` 是存档，`wdfz3d_ends` 是结局记录，`wdfz3d_deaths` 是跨局的死亡记录（笔记「梦里记得的事」读它），`wdfz_pro` 控制前情提要，`zw3d_set` 保存设置。优先使用新的浏览器上下文或独立临时配置，避免覆盖已有玩家数据；不要直接清除用户浏览器的数据。localStorage 按来源隔离，不同端口可能有不同状态。修改画质、时间、角色位置、房间或事件时，记录初始状态和操作步骤。
+状态会影响复现：`wdfz3d` 是存档，`wdfz3d_ends` 是结局记录，`wdfz3d_deaths` 是跨局的死亡记录（笔记「梦里记得的事」读它），`wdfz_pro` 控制前情提要，`zw3d_set` 保存设置，`wdfz3d_death_archive_v1` 是死亡档案室（含「全部解锁」写的 `granted`）。检查档案室的结局与开场回放时，用 `wdfz3d_ends` 预置已见结局即可；要一次打开全部档案，点档案室的「全部解锁」再在键盘上输密码，或直接 `DeathArchive.unlockAll()`——它只写 `granted`，不会改结局记录和死亡次数，所以不能拿它证明某条路线真的达成过。优先使用新的浏览器上下文或独立临时配置，避免覆盖已有玩家数据；不要直接清除用户浏览器的数据。localStorage 按来源隔离，不同端口可能有不同状态。修改画质、时间、角色位置、房间或事件时，记录初始状态和操作步骤。
 
 ## 4. 自动化复现与结果边界
 

diff --git a/README.md b/README.md
@@ -8,7 +8,7 @@
 
 Wiki 收录操作、课表、地点、道具、异象和公开结局路线的攻略；异象详解与结局路线默认折叠，方便避开剧透。游戏主菜单也可以打开 Wiki。
 
-主菜单除了「预知梦」「梦魇」两种难度（开局前选一项天赋，新局先播一段可跳过的 3D 开场），还有「速通模式」（从第一次能操作计时到真结局，本机记录个人最佳，不占普通存档）和「死亡档案室」（每种死法第一次发生时记一份，可重看死亡演出）。
+主菜单除了「预知梦」「梦魇」两种难度（开局前选一项天赋，新局先播一段可跳过的 3D 开场），还有「速通模式」（从第一次能操作计时到真结局，本机记录个人最佳，不占普通存档）和「死亡档案室」（每种死法第一次发生时记一份，可重看死亡演出；达成过的结局和看过的开场也能重看）。
 
 [游戏设计与机制总览](https://chorusfruit-233.github.io/wdfz/docs/game-design-overview.html) 是面向人类阅读的图解入口：13 个章节、16 幅编号图解，先讲机制用途与相互关系，再展开规则、数值和例外。包含章节搜索、独立剧透折叠、异象筛选和两项规则演示；[单文件 HTML](docs/game-design-overview.html) 可直接在浏览器打开。完整规则与评审材料仍以产品对齐文档和对应代码为准。
 
